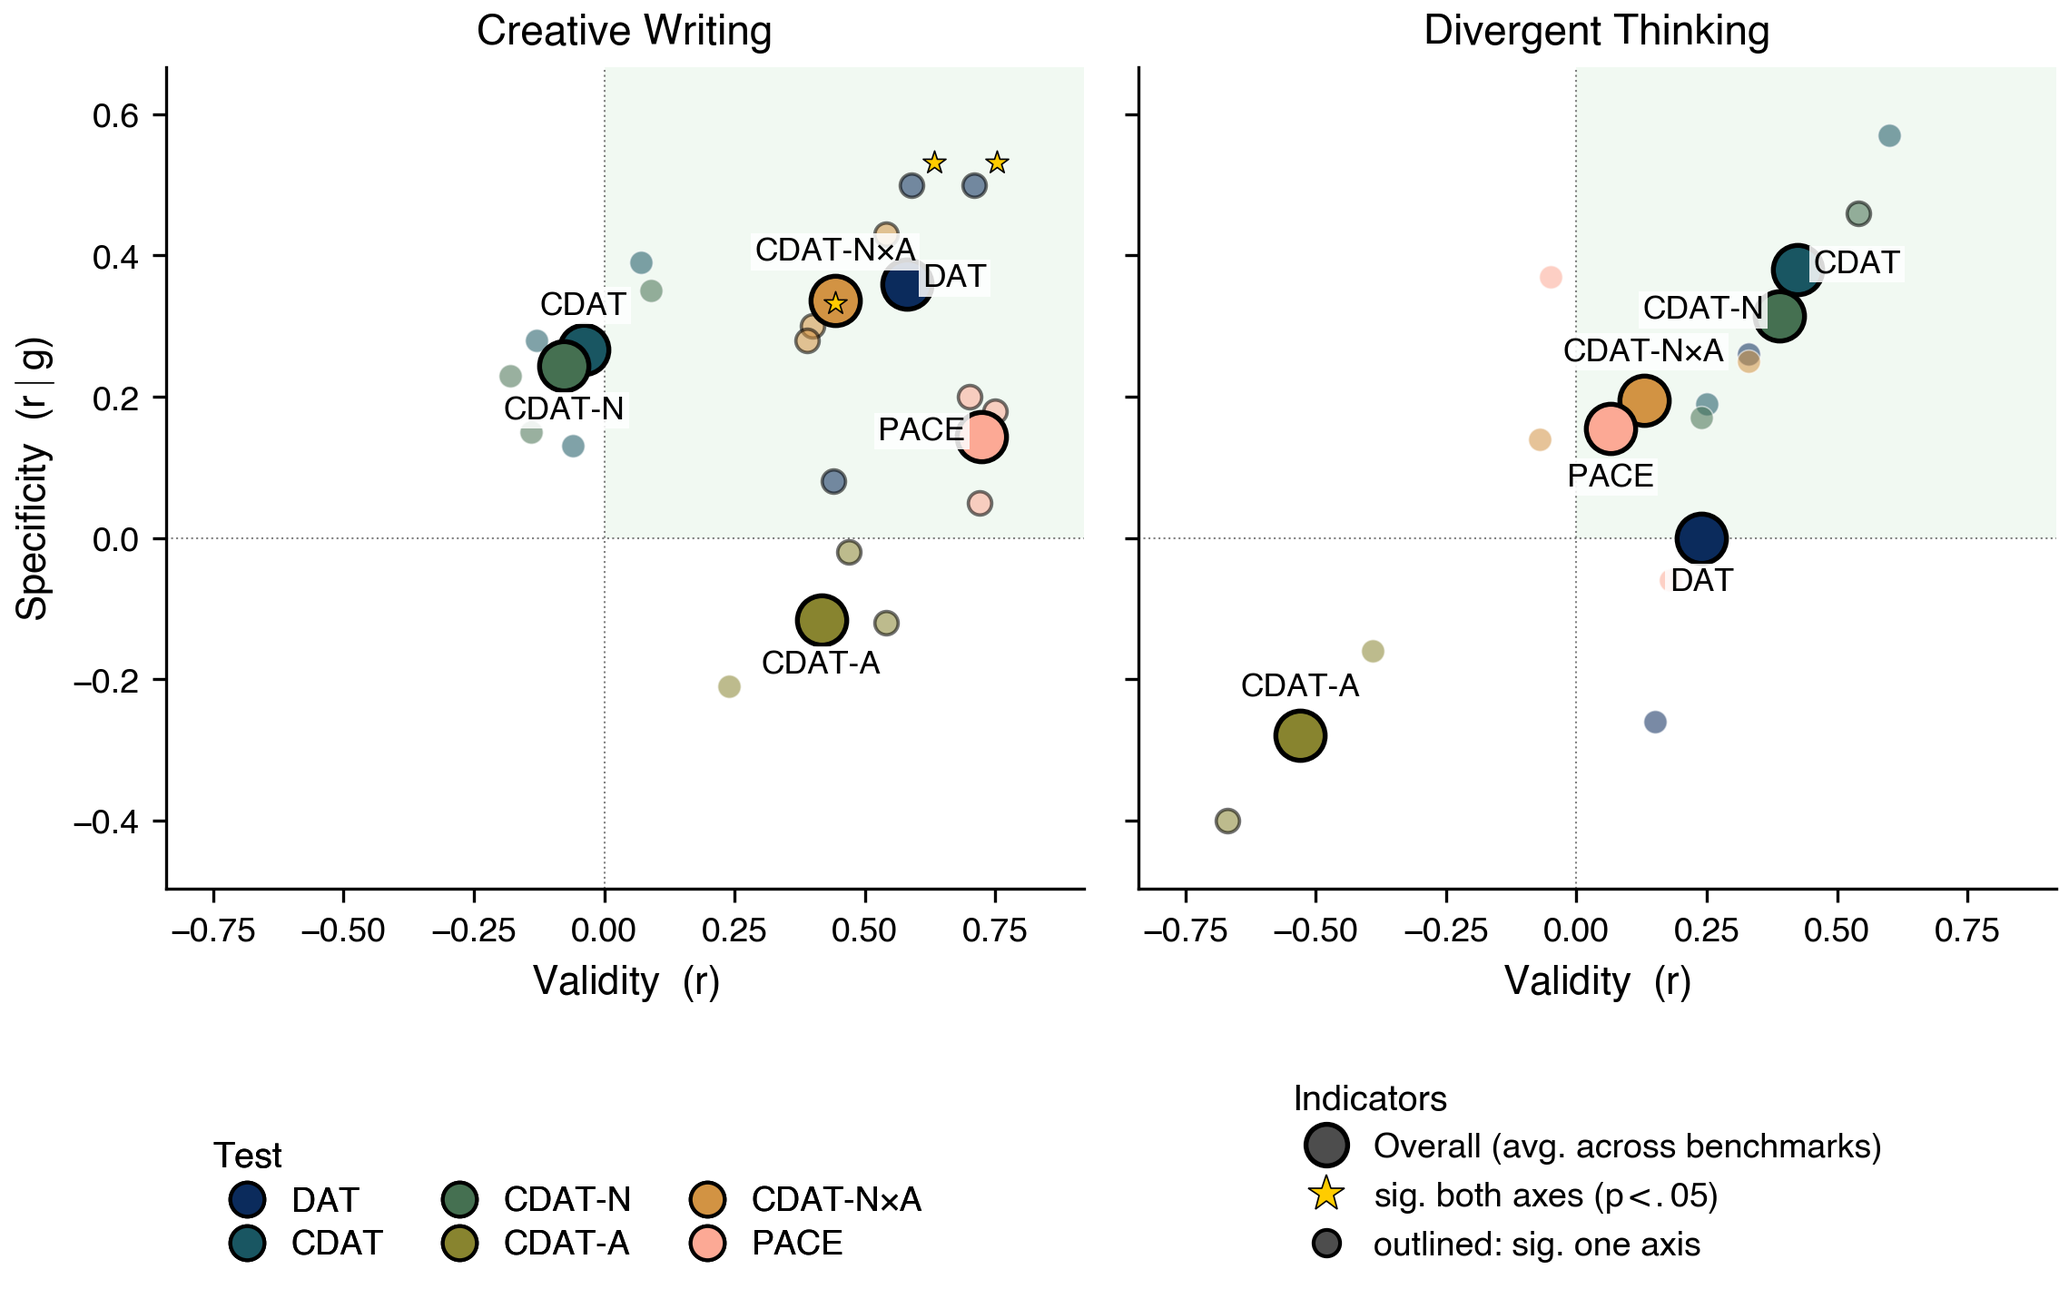
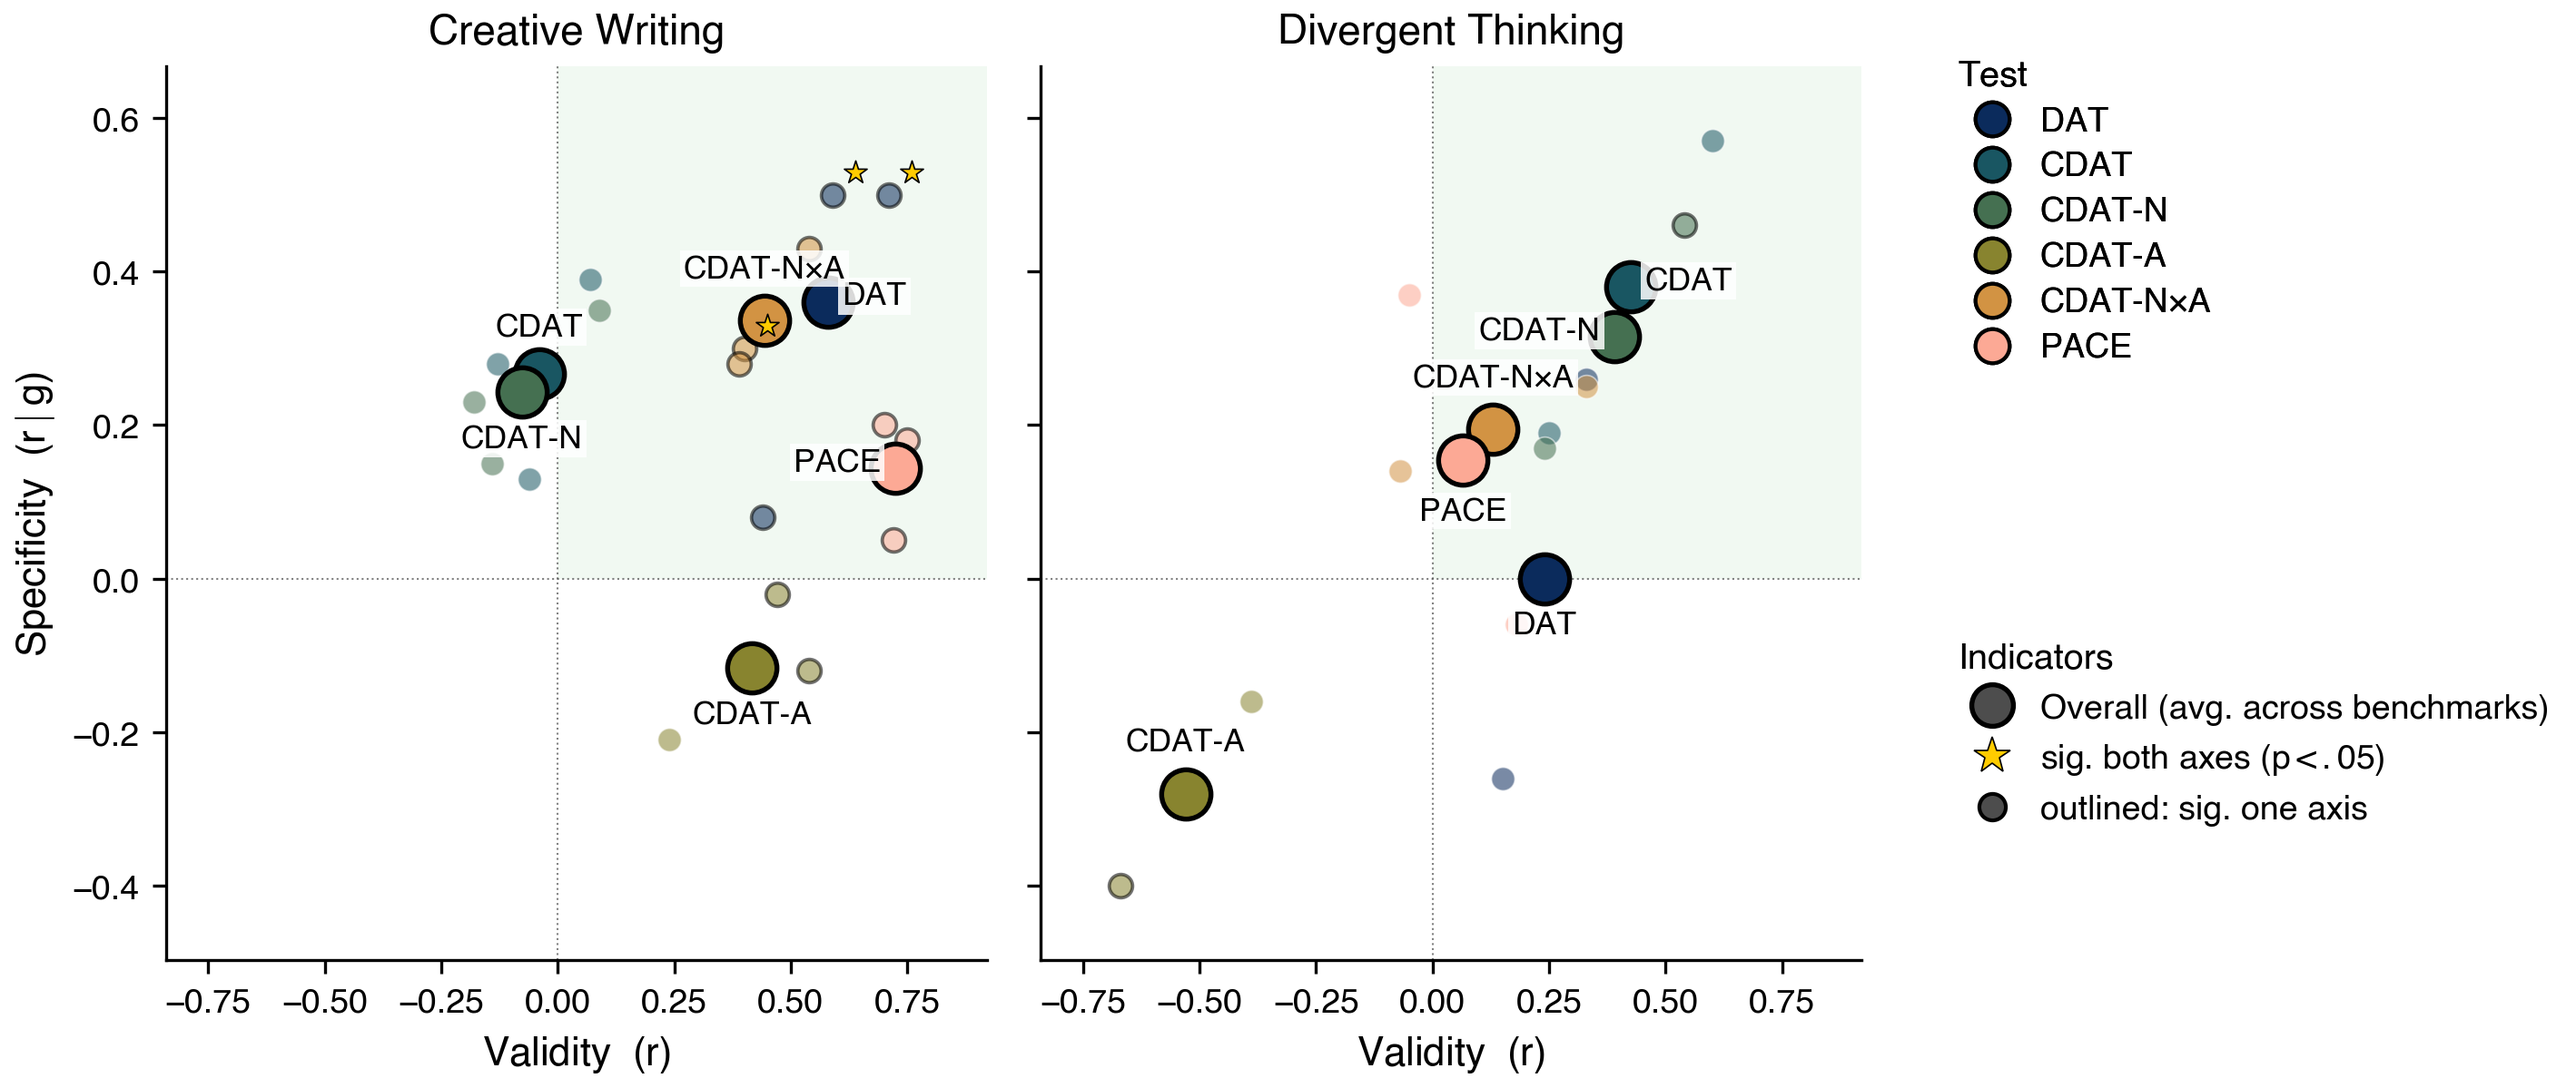
fig_headline: move legend to right side, stacked
Stacked Test + Indicators legends on the right of the plot instead of
below. Figure widened to 9.2x4.2 and rect reserves 23% of width for
the legend column so the plot area doesn't shrink.

diff --git a/src/dat_eval/scripts/make_figures.py b/src/dat_eval/scripts/make_figures.py
@@ -1368,14 +1368,14 @@ def fig_headline():
     """
     from matplotlib.lines import Line2D
 
-    figsize = (7.8, 4.8)
+    figsize = (9.2, 4.2)
     title_fs, axis_fs, tick_fs = 11.0, 10.5, 9.0
     leg_fs, leg_title_fs, annotate_fs = 9.0, 9.5, 8.5
     s_ind, s_overall, s_star = 38, 170, 40
     overall_edge_lw, ind_sig_lw, ind_nosig_lw = 1.3, 0.9, 0.4
     leg_ms_test, leg_ms_overall, leg_ms_star, leg_ms_outl = 9, 11, 10, 7
     star_off_pts = 6
-    rect = [0, 0.18, 1, 1]
+    rect = [0, 0, 0.77, 1]
     out_dirs = [FIGS_DIR, PAPER_FIGS_DIR]
 
     # Colors encode tests. 6 well-separated categorical samples from Batlow;
@@ -1563,19 +1563,20 @@ def fig_headline():
                label="outlined: sig. one axis"),
     ]
 
+    # Stacked legends on the right: Test on top, Indicators below.
     leg_tests = fig.legend(
         handles=test_handles, title="Test",
-        loc="lower center", bbox_to_anchor=(0.28, -0.01),
-        ncol=3, frameon=False, fontsize=leg_fs, title_fontsize=leg_title_fs,
-        handletextpad=0.3, columnspacing=1.2, labelspacing=0.35,
+        loc="upper left", bbox_to_anchor=(0.78, 0.95),
+        ncol=1, frameon=False, fontsize=leg_fs, title_fontsize=leg_title_fs,
+        handletextpad=0.4, labelspacing=0.4,
     )
     leg_tests._legend_box.align = "left"
     fig.add_artist(leg_tests)
     leg_ind = fig.legend(
         handles=indicator_handles, title="Indicators",
-        loc="lower center", bbox_to_anchor=(0.76, -0.01),
+        loc="upper left", bbox_to_anchor=(0.78, 0.44),
         ncol=1, frameon=False, fontsize=leg_fs, title_fontsize=leg_title_fs,
-        handletextpad=0.4, labelspacing=0.45,
+        handletextpad=0.4, labelspacing=0.5,
     )
     leg_ind._legend_box.align = "left"
 
